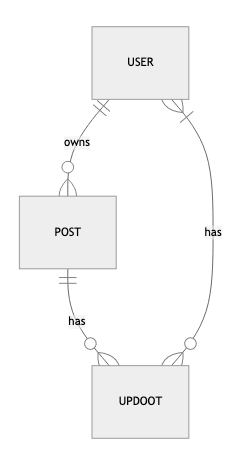
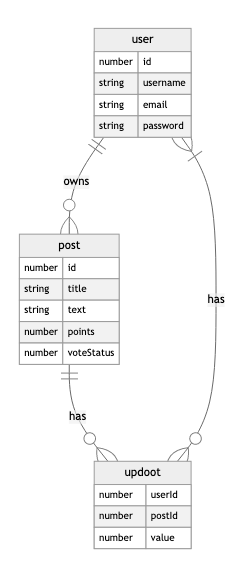
refactor: mermaid

Changed region(s): [[0.0562, 0.0301, 0.8996, 0.9634], [0.8153, 0.3011, 0.8434, 0.3613]]

diff --git a/mermaid.md b/mermaid.md
@@ -1,4 +1,26 @@
 erDiagram
-  USER ||--o{ POST : owns
-  POST ||--o{ UPDOOT : has
-  USER }|--o{ UPDOOT : has
+
+user ||--o{ post : owns
+post ||--o{ updoot : has
+user }|--o{ updoot : has
+
+user {
+number id
+string username
+string email
+string password
+}
+
+post {
+number id
+string title
+string text
+number points
+number voteStatus
+}
+
+updoot {
+number userId
+number postId
+number value
+}
